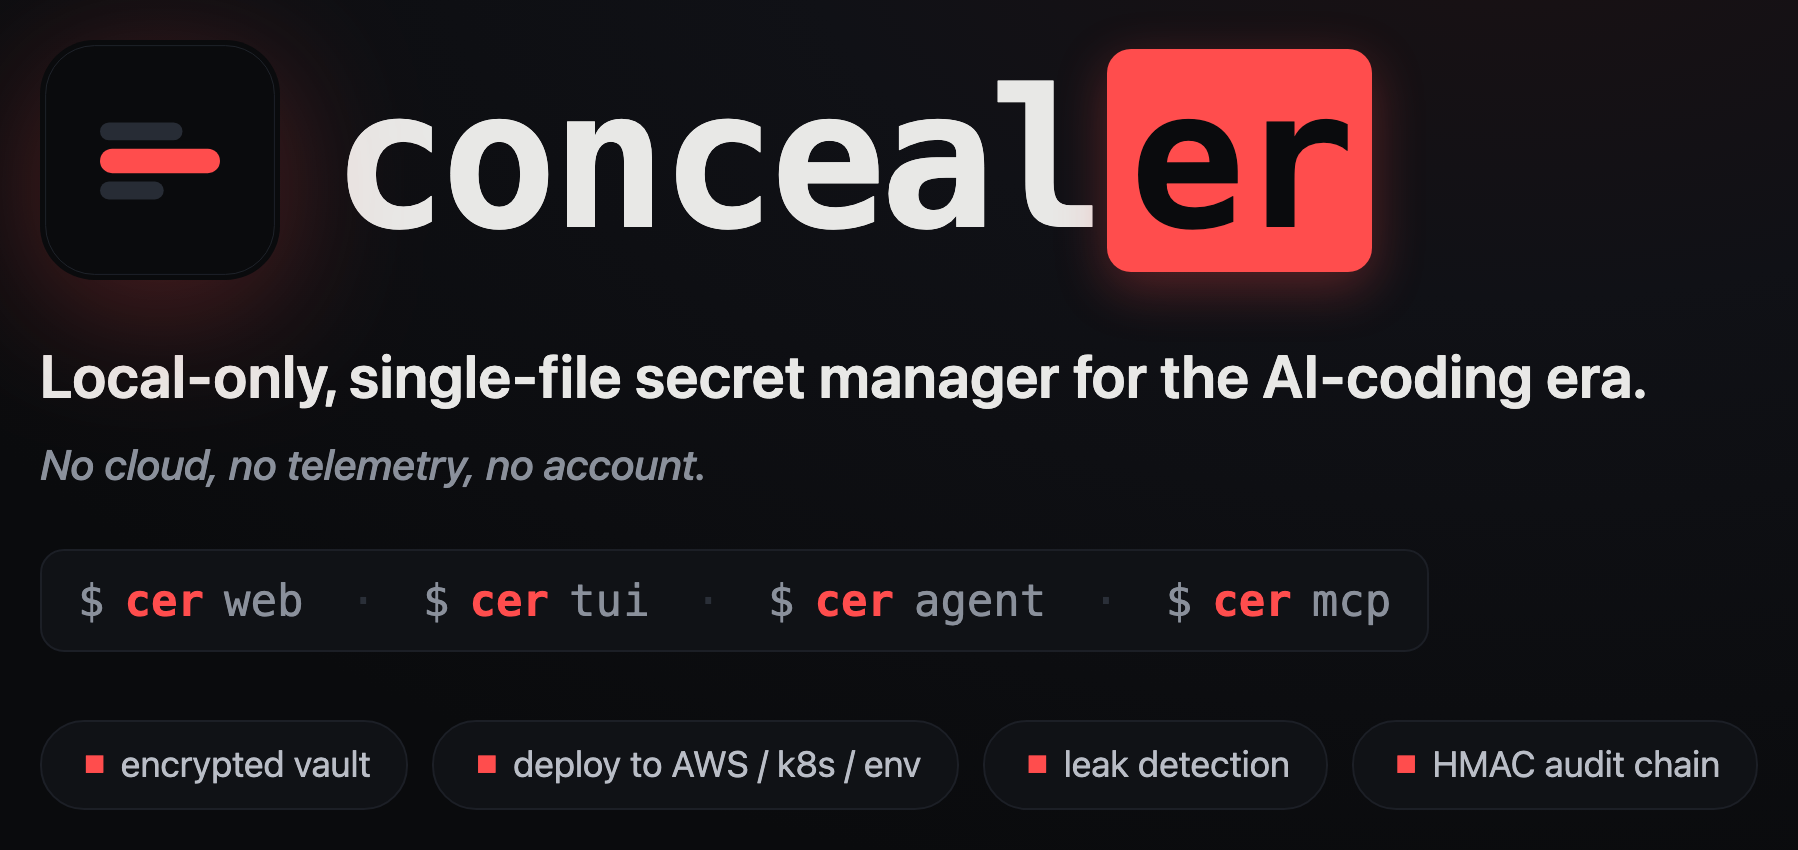
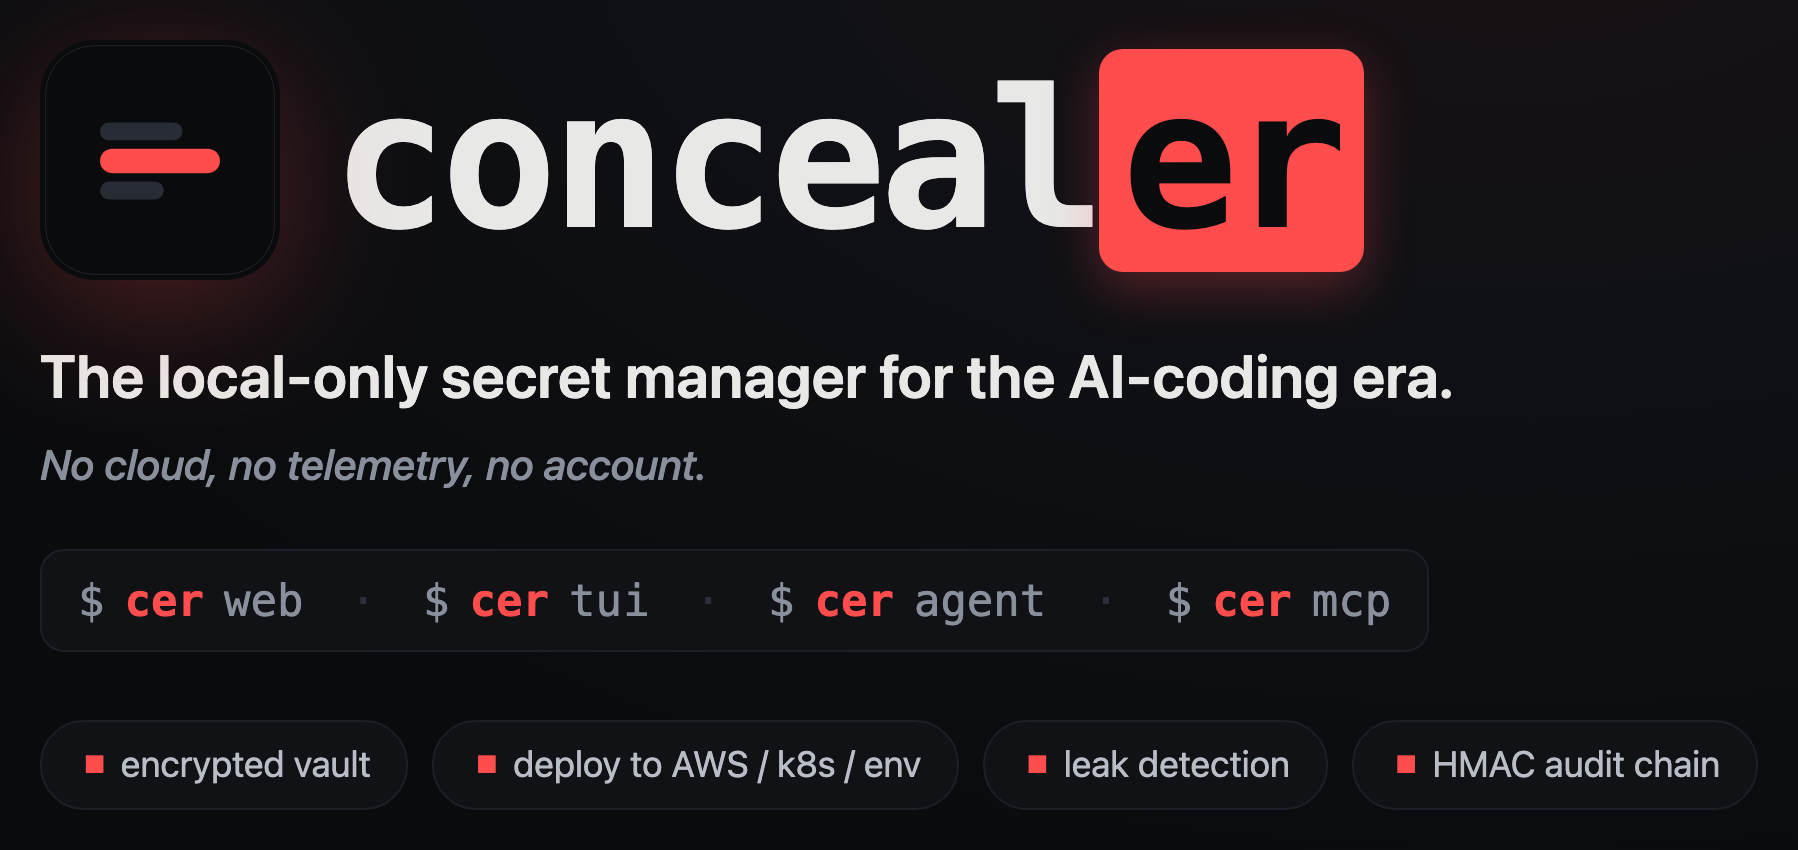
UI polish, login throttle, backup schedule units, and .cerbak masking
- Filters panels start collapsed on every page (Secrets/Audit/Stats)
- Master-password brute-force throttle: 5 wrong tries → 5 min IP lockout
  (HTTP 429 + live countdown in the UI); audited as unlock_blocked
- Stats Platform/Tags + Interface bars use the shared accent color
- Login slogan → "The local-only secret manager for the AI-coding era."
  (web login, hero image regenerated, README slogan/alt)
- Backup: interval takes a number + unit (hours/days/weeks/months),
  Destination folder gets a native Browse picker, fix empty-cell gap
- .cerbak masked at rest: XOR the age ciphertext with a fixed public seed
  so the file shows no age/scrypt/sops markers on a raw cat. Cosmetic only
  — real encryption is unchanged (age + backup password); old raw-age
  .cer/.age bundles still import
- VERSION → 0.9.17, CHANGELOG entry

Changed region(s): [[0.0, 0.3976, 0.9032, 0.4894], [0.5918, 0.0612, 0.7786, 0.3059]]

diff --git a/webui.html b/webui.html
@@ -353,7 +353,7 @@ pre.code code{font-family:ui-monospace,Menlo,monospace;font-size:12.5px;line-hei
       <button class="ghost" onclick="togglePw('pw',this)">👁</button>
     </div>
     <div id="loginerr" style="color:var(--bad);margin-top:10px;min-height:18px"></div>
-    <button class="primary" style="width:100%;margin-top:8px" data-i18n="unlock" onclick="unlock()">Aç</button>
+    <button class="primary" id="unlockbtn" style="width:100%;margin-top:8px" data-i18n="unlock" onclick="unlock()">Aç</button>
     <div class="foot">conceal<span class="ac">er</span> · v__VERSION__ <a href="https://github.com/fxerkan/concealer" title="GitHub"><svg viewBox="0 0 16 16" width="15" height="15" fill="currentColor" style="vertical-align:-2px"><path d="M8 0C3.58 0 0 3.58 0 8c0 3.54 2.29 6.53 5.47 7.59.4.07.55-.17.55-.38 0-.19-.01-.82-.01-1.49-2.01.37-2.53-.49-2.69-.94-.09-.23-.48-.94-.82-1.13-.28-.15-.68-.52-.01-.53.63-.01 1.08.58 1.23.82.72 1.21 1.87.87 2.33.66.07-.52.28-.87.51-1.07-1.78-.2-3.64-.89-3.64-3.95 0-.87.31-1.59.82-2.15-.08-.2-.36-1.02.08-2.12 0 0 .67-.21 2.2.82.64-.18 1.32-.27 2-.27.68 0 1.36.09 2 .27 1.53-1.04 2.2-.82 2.2-.82.44 1.1.16 1.92.08 2.12.51.56.82 1.27.82 2.15 0 3.07-1.87 3.75-3.65 3.95.29.25.54.73.54 1.48 0 1.07-.01 1.93-.01 2.2 0 .21.15.46.55.38A8.01 8.01 0 0016 8c0-4.42-3.58-8-8-8z"/></svg></a></div>
   </div>
 </div>
@@ -639,14 +639,25 @@ pre.code code{font-family:ui-monospace,Menlo,monospace;font-size:12.5px;line-hei
         <button data-i18n="backup_now" onclick="doBackup()">⬇ Backup now (.cerbak)</button>
       </div>
       <div class="grid" style="max-width:680px;margin-top:14px">
-        <div class="field"><label class="fld" style="display:flex;gap:8px;align-items:center">
+        <div class="field full"><label class="fld" style="display:flex;gap:8px;align-items:center">
           <input type="checkbox" id="bk_enabled" style="width:auto"> <span data-i18n="bk_auto">Automatic backups</span></label></div>
-        <div class="field"><label class="fld" data-i18n="bk_interval">Every (hours)</label>
-          <input id="bk_interval" type="number" min="1" max="8760"></div>
+        <div class="field"><label class="fld" data-i18n="bk_interval">Every</label>
+          <div style="display:flex;gap:8px">
+            <input id="bk_interval" type="number" min="1" style="max-width:110px">
+            <select id="bk_unit">
+              <option value="1" data-i18n="bk_u_hour">hours</option>
+              <option value="24" data-i18n="bk_u_day">days</option>
+              <option value="168" data-i18n="bk_u_week">weeks</option>
+              <option value="720" data-i18n="bk_u_month">months</option>
+            </select>
+          </div></div>
         <div class="field"><label class="fld" data-i18n="bk_keep">Keep last (files)</label>
           <input id="bk_keep" type="number" min="1" max="365"></div>
         <div class="field"><label class="fld" data-i18n="bk_dir">Destination folder</label>
-          <input id="bk_dir" type="text" placeholder="/Users/…/concealer-backups"></div>
+          <div style="display:flex;gap:8px">
+            <input id="bk_dir" type="text" placeholder="/Users/…/concealer-backups">
+            <button class="ghost" type="button" onclick="bkBrowse()" style="white-space:nowrap">📁 <span data-i18n="browse">Browse</span></button>
+          </div></div>
         <div class="field"><label class="fld" data-i18n="bk_pw">Backup password <span id="bk_pw_set" class="mut"></span></label>
           <input id="bk_pw" type="password" data-i18n-ph="bk_pw_ph" placeholder="set / change (leave blank to keep)"></div>
       </div>
@@ -675,8 +686,8 @@ let SPAGE=1; let SPAGE_SIZE=parseInt(localStorage.getItem('concealer_psize'))||2
 
 // ---------- i18n ----------
 const I18N={
- tr:{login_sub:"YZ kodlama çağı için yerel, tek dosyalı gizli bilgi yöneticisi.",master_pw:"Master password",unlock:"Aç",
-  wrong_pw:"Yanlış master password.",secrets:"Sırlar",audit_log:"Denetim Kayıtları",lock:"🔒 Kilitle",filters:"Filtreler",search:"ara",
+ tr:{login_sub:"YZ kodlama çağı için yerel gizli bilgi yöneticisi.",master_pw:"Master password",unlock:"Aç",
+  wrong_pw:"Yanlış master password.",locked_wait:s=>`Çok fazla hatalı deneme — ${s} sn bekleyin.`,secrets:"Sırlar",audit_log:"Denetim Kayıtları",lock:"🔒 Kilitle",filters:"Filtreler",search:"ara",
   search_secrets:"🔎 ara: ad, url, etiket, not…",all_types:"tüm tipler",new_secret:"+ Yeni Sır",
   th_name:"Ad",th_type:"Tip",th_scope:"Kapsam (tenant/proje/ortam/repo)",th_tags:"Etiketler",th_updated:"Güncellendi",th_actions:"İşlemler",
   no_records:"kayıt yok",records:"kayıt",view:"Görüntüle",edit:"Düzenle",del:"Sil",more:"Daha fazla",per_page:"sayfa başına",
@@ -757,7 +768,7 @@ const I18N={
   exported:"dışa aktarma indirildi",imp_pick:"önce .age dosyası seç",imp_fail:"içe aktarma başarısız",imp_corrupt:"bozuk / okunamayan dosya",imported_n:(n,u,s)=>`+${n} yeni, ~${u} güncellendi, =${s||0} atlandı`,
   imp_mode_overwrite:"Çakışmada: üzerine yaz",imp_mode_skip:"Çakışmada: atla",imp_mode_duplicate:"Çakışmada: kopyala",
   set_backup:"Yedek (.cerbak)",set_backup_hint:"Bir .cerbak yedeği, tüm vault'un master parolandan AYRI özel bir yedek parolasıyla şifrelenmiş halidir — içi açılıp okunamayan opak binary. Yukarıdaki İçe Aktar ile geri yüklenir. Otomatik yedekler, süre dolunca kilit açılışında bir .cerbak'ı yerel klasöre yazar.",
-  backup_now:"⬇ Şimdi yedekle (.cerbak)",bk_auto:"Otomatik yedek",bk_interval:"Her (saat)",bk_keep:"Son (dosya) tut",bk_dir:"Hedef klasör",
+  backup_now:"⬇ Şimdi yedekle (.cerbak)",bk_auto:"Otomatik yedek",bk_interval:"Her",bk_u_hour:"saat",bk_u_day:"gün",bk_u_week:"hafta",bk_u_month:"ay",bk_keep:"Son (dosya) tut",bk_dir:"Hedef klasör",
   bk_pw:"Yedek parolası",bk_pw_ph:"belirle / değiştir (boş = değişmesin)",bk_pw_isset:"(ayarlı)",bk_pw_unset:"(ayarlı değil)",bk_run:"▶ Otomatik yedeği şimdi al",
   bk_saved:"yedek ayarı kaydedildi",bk_downloaded:"yedek indirildi",bk_ran:s=>`yedek yazıldı: ${s}`,
   bk_pw_short:"yedek parolası en az 8 karakter olmalı",bk_pw_mismatch:"yedek parolaları eşleşmiyor",bk_pw_same:"yedek parolası master paroladan farklı olmalı",
@@ -773,8 +784,8 @@ const I18N={
   ch_trend:"Etkinlik Trendi",ch_type:"Tipe göre",ch_platform:"Platform / Etiket",ch_project:"Projeye göre",
   ch_interface:"Arayüz (kaynak)",ch_action:"Eyleme göre",ch_actor:"Aktöre göre",ch_accessed:"En çok erişilen secret",
   ch_tenant:"Tenant'a göre",ch_env:"Ortama göre",ch_repo:"Repo'ya göre"},
- en:{login_sub:"Local‑only, single‑file secret manager for the AI‑coding era.",master_pw:"Master password",unlock:"Unlock",
-  wrong_pw:"Wrong master password.",secrets:"Secrets",audit_log:"Audit Logs",lock:"🔒 Lock",filters:"Filters",search:"search",
+ en:{login_sub:"The local-only secret manager for the AI-coding era.",master_pw:"Master password",unlock:"Unlock",
+  wrong_pw:"Wrong master password.",locked_wait:s=>`Too many wrong attempts — wait ${s}s.`,secrets:"Secrets",audit_log:"Audit Logs",lock:"🔒 Lock",filters:"Filters",search:"search",
   search_secrets:"🔎 search: name, url, tag, notes…",all_types:"all types",new_secret:"+ New Secret",
   th_name:"Name",th_type:"Type",th_scope:"Scope (tenant/project/env/repo)",th_tags:"Tags",th_updated:"Updated",th_actions:"Actions",
   no_records:"no records",records:"records",view:"View",edit:"Edit",del:"Delete",more:"More",per_page:"per page",
@@ -855,7 +866,7 @@ const I18N={
   exported:"export downloaded",imp_pick:"pick a .age file first",imp_fail:"import failed",imp_corrupt:"corrupt / unreadable file",imported_n:(n,u,s)=>`+${n} new, ~${u} updated, =${s||0} skipped`,
   imp_mode_overwrite:"On conflict: overwrite",imp_mode_skip:"On conflict: skip",imp_mode_duplicate:"On conflict: duplicate",
   set_backup:"Backup (.cerbak)",set_backup_hint:"A .cerbak backup is the whole vault encrypted with a dedicated backup password (separate from your master password) — an opaque binary you can't open to read. Restore it via Import above. Automatic backups write a .cerbak to a local folder on unlock once the interval has elapsed.",
-  backup_now:"⬇ Backup now (.cerbak)",bk_auto:"Automatic backups",bk_interval:"Every (hours)",bk_keep:"Keep last (files)",bk_dir:"Destination folder",
+  backup_now:"⬇ Backup now (.cerbak)",bk_auto:"Automatic backups",bk_interval:"Every",bk_u_hour:"hours",bk_u_day:"days",bk_u_week:"weeks",bk_u_month:"months",bk_keep:"Keep last (files)",bk_dir:"Destination folder",
   bk_pw:"Backup password",bk_pw_ph:"set / change (leave blank to keep)",bk_pw_isset:"(set)",bk_pw_unset:"(not set)",bk_run:"▶ Run auto-backup now",
   bk_saved:"backup settings saved",bk_downloaded:"backup downloaded",bk_ran:s=>`backup written: ${s}`,
   bk_pw_short:"backup password must be at least 8 characters",bk_pw_mismatch:"backup passwords don't match",bk_pw_same:"backup password must differ from the master password",
@@ -949,10 +960,21 @@ function tagChip(name){
 }
 
 // ---------- auth / idle ----------
+let _lockTimer=null;
 async function unlock(){
   const r=await fetch('/api/unlock',{method:'POST',body:JSON.stringify({pw:$('#pw').value})});
-  if(r.ok){ $('#pw').value=''; $('#loginerr').textContent=''; showApp(); }
-  else $('#loginerr').textContent=t('wrong_pw');
+  if(r.ok){ $('#pw').value=''; $('#loginerr').textContent=''; lockCountdown(0); showApp(); return; }
+  if(r.status===429){ const d=await r.json().catch(()=>({})); lockCountdown(d.retry_after||300); return; }
+  $('#loginerr').textContent=t('wrong_pw');
+}
+// Disable the login for `secs` seconds after too many wrong passwords, ticking down a message.
+function lockCountdown(secs){
+  clearInterval(_lockTimer); const btn=$('#unlockbtn'), pw=$('#pw');
+  if(secs<=0){ if(btn)btn.disabled=false; if(pw)pw.disabled=false; $('#loginerr').textContent=''; return; }
+  let left=secs;
+  const tick=()=>{ if(left<=0){ lockCountdown(0); return; }
+    $('#loginerr').textContent=t('locked_wait',left); left--; };
+  if(btn)btn.disabled=true; if(pw)pw.disabled=true; tick(); _lockTimer=setInterval(tick,1000);
 }
 async function lock(){ await fetch('/api/lock',{method:'POST'}); showLogin(); }
 function showLogin(){ clearInterval(idleTimer); closeModal(); $('.menu').classList.remove('open'); $('#app').classList.add('hidden'); $('#login').classList.remove('hidden'); $('#pw').focus(); history.replaceState({}, '', location.pathname); }
@@ -963,8 +985,8 @@ async function showApp(startSecs){
   rebuildSelects(); FOPTS.type=Object.keys(TYPES); FDIMS.forEach(renderMsel);
   ['a_source','a_action','a_actor','a_key','a_detail','st_source','st_actor','st_type','st_project'].forEach(renderMsel);
   renderPeriods('#aperiods',APERIOD.k,'aPickPeriod'); renderPeriods('#stperiods',STPERIOD.k,'stPickPeriod'); dtSync();
-  const wide=window.innerWidth>820;
-  ['filter','afilter','stfilter'].forEach(p=>{ $('#'+p+'panel').classList.toggle('hidden',!wide); $('#'+p+'btn').classList.toggle('on',wide); });
+  // Filters start collapsed on every page — the user opens them explicitly.
+  ['filter','afilter','stfilter'].forEach(p=>{ $('#'+p+'panel').classList.add('hidden'); $('#'+p+'btn').classList.remove('on'); });
   measureSticky();
   idleLeft=(startSecs!=null?startSecs:IDLE); startIdle();
   _navlock=true; showTab('secrets'); _navlock=false;
@@ -1072,11 +1094,17 @@ async function loadBackup(){
   if(!$('#bk_enabled'))return;                       // eski sunucu / bu bolum yok → sessizce gec
   const r=await api('/api/backup'); if(!r.ok)return; // eski sunucu 404 → sekmeyi bozma (sunucuyu yeniden baslat)
   const b=await r.json();
-  $('#bk_enabled').checked=!!b.enabled; $('#bk_interval').value=b.interval_h||24; $('#bk_keep').value=b.keep||7;
+  $('#bk_enabled').checked=!!b.enabled; bkSetInterval(b.interval_h||24); $('#bk_keep').value=b.keep||7;
   $('#bk_dir').value=b.dir||''; $('#bk_pw').value='';
   $('#bk_pw_set').textContent=b.has_pw?t('bk_pw_isset'):t('bk_pw_unset');
   $('#bk_last').textContent=b.last?t('bk_last',b.last.replace('T',' ').slice(0,19)):t('bk_last_never');
 }
+// Show interval_h in the largest whole unit (month/week/day/hour).
+function bkSetInterval(h){
+  const u=[720,168,24,1].find(f=>h%f===0)||1;
+  $('#bk_unit').value=u; $('#bk_interval').value=h/u;
+}
+async function bkBrowse(){ const d=await (await api('/api/pickdir')).json(); if(d.path)$('#bk_dir').value=d.path.replace(/\/$/,''); }
 // Manuel .cerbak indir: yedek parolasını 2 kez sor (master'dan farklı, min 8).
 function doBackup(){
   const body=`<div class="field"><label class="fld">${t('bk_pw')}</label>
@@ -1101,7 +1129,7 @@ function doBackup(){
 // Oto-yedek ayarını kaydet: master pw ile doğrula; yeni yedek parolası girildiyse gönder.
 function saveBackupCfg(){
   const enabled=$('#bk_enabled').checked;
-  const interval_h=Math.max(1,Math.min(8760,parseInt($('#bk_interval').value)||24));
+  const interval_h=Math.max(1,Math.min(8760,(parseInt($('#bk_interval').value)||1)*(parseInt($('#bk_unit').value)||1)));
   const keep=Math.max(1,Math.min(365,parseInt($('#bk_keep').value)||7));
   const dir=$('#bk_dir').value.trim(), backup_pw=$('#bk_pw').value;
   if(backup_pw && backup_pw.length<8){toast(t('bk_pw_short'));return;}
@@ -2259,8 +2287,8 @@ function renderStats(S,A){
   $('#stcharts').innerHTML=[
     card(t('ch_trend'),trendSVG(trendData(A,STPERIOD)),true),
     card(t('ch_type'),barsHTML(countBy(S,e=>e.type))),
-    card(t('ch_platform'),barsHTML(countFlat(S,e=>e.tags),{color:tagColor})),
-    card(t('ch_interface'),barsHTML(countBy(A,r=>r.source),{color:tagColor})),
+    card(t('ch_platform'),barsHTML(countFlat(S,e=>e.tags))),
+    card(t('ch_interface'),barsHTML(countBy(A,r=>r.source))),
     card(t('ch_action'),barsHTML(countBy(A,r=>r.action),{label:actLabel})),
     card(t('ch_actor'),barsHTML(countBy(A,r=>r.actor))),
     card(t('ch_accessed'),barsHTML(accByKey)),

diff --git a/docs/assets/hero.html b/docs/assets/hero.html
@@ -35,7 +35,7 @@
       </svg>
       <h1>conceal<span class="ac">er</span></h1>
     </div>
-    <p class="sub">Local‑only, single‑file secret manager for the AI‑coding era.</p>
+    <p class="sub">The local-only secret manager for the AI-coding era.</p>
     <p class="tag" style="font-style:italic">No cloud, no telemetry, no account.</p>
     <p class="cli">$ <b>cer</b> web<span style="color:#2a2f38">&nbsp;·&nbsp;</span>$ <b>cer</b> tui<span style="color:#2a2f38">&nbsp;·&nbsp;</span>$ <b>cer</b> agent<span style="color:#2a2f38">&nbsp;·&nbsp;</span>$ <b>cer</b> mcp</p>
     <div class="chips">

diff --git a/CHANGELOG.md b/CHANGELOG.md
@@ -6,6 +6,24 @@ Format follows [Keep a Changelog](https://keepachangelog.com/); versioning is
 `0.x.y` and **stays in `0.x` until the first full public release** — there is no
 `1.0` yet. Dates are UTC.
 
+## [0.9.17] — 2026-08-30
+
+### Added
+- **Login brute-force throttle** — after 5 consecutive wrong master passwords the web login locks
+  for 5 minutes (per client IP, in-memory); the UI shows a live countdown and disables the field.
+  Audited as `unlock_blocked`.
+- **Backup schedule units** — the auto-backup interval now takes a number **+ unit** (hours / days /
+  weeks / months) instead of raw hours; **Destination folder** gets a native **Browse** picker.
+
+### Changed
+- **Filters panels start collapsed** on every page (Secrets / Audit / Stats) — open them explicitly.
+- **Stats charts** — Platform/Tags and Interface (source) bars now use the same accent color as the
+  other charts (no rainbow palette).
+- **Login slogan** → "The local-only secret manager for the AI-coding era." (web login + hero image).
+- **`.cerbak` backups are masked at rest** — the file no longer shows `age-encryption.org` / `scrypt`
+  markers on a raw `cat`; the bytes are XOR-masked with a fixed public seed. Cosmetic only — the real
+  encryption is unchanged (age + backup password). Old raw-age `.cer`/`.age` bundles still import.
+
 ## [0.9.16] — 2026-08-27
 
 ### Added

diff --git a/README.md b/README.md
@@ -1,5 +1,5 @@
 <p align="center">
-  <img src="https://raw.githubusercontent.com/fxerkan/concealer/main/docs/assets/hero.png" alt="concealer — Local‑only, single‑file secret manager for the AI‑coding era" width="820">
+  <img src="https://raw.githubusercontent.com/fxerkan/concealer/main/docs/assets/hero.png" alt="concealer — The local-only secret manager for the AI-coding era" width="820">
 </p>
 
 # conceal**er**
@@ -12,7 +12,7 @@
   <a href="https://fxerkan.github.io/concealer/"><img src="https://img.shields.io/badge/docs-fxerkan.github.io-ff4d4d?style=for-the-badge&labelColor=0a0b0d" alt="Docs"></a>
 </p>
 
-> **Local‑only, single‑file secret manager for the AI‑coding era.**
+> **The local-only secret manager for the AI-coding era.**
 > Encrypted with [SOPS](https://github.com/getsops/sops) + [age](https://github.com/FiloSottile/age).
 > No cloud, no telemetry, no account. CLI · Web UI · MCP · TUI.
 
